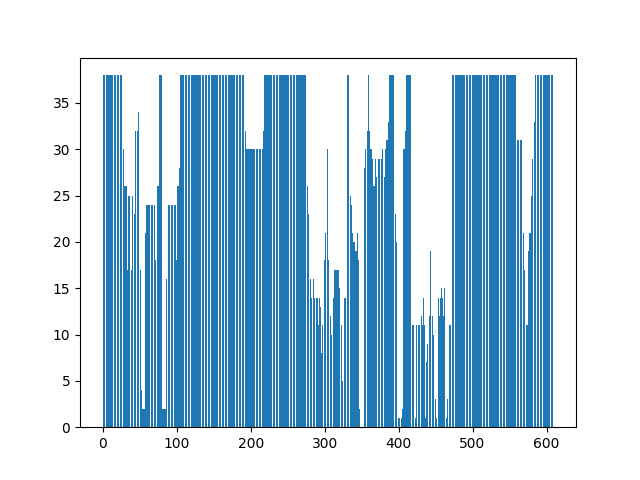
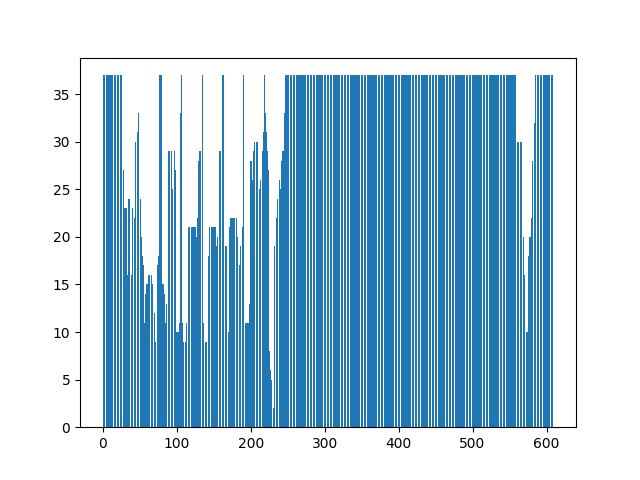
3dprint_windoe_projection追加

diff --git a/3dprint_window_projection.py b/3dprint_window_projection.py
@@ -267,8 +267,8 @@ def match_text(frame,before_text,before_kersol):
             match_img = img_mask[int(char_List1[i]):int(char_List1[i+1]),int(char_List2[j]):int(char_List2[j+1])]
             match_img = cv2.resize(match_img,dsize=(26,36))
             height_m,width_m = match_img.shape
-            #plt.imshow(match_img)
-            #plt.show()
+            plt.imshow(match_img)
+            plt.show()
             for f in range(len(temp['x'])):
                 temp_th = img_temp[f]
                 temp_th = cv2.resize(temp_th,dsize=(26,36))
@@ -282,32 +282,39 @@ def match_text(frame,before_text,before_kersol):
                 
             #類似度が最大のもの順にソート
             new_d = sorted(s.items(), reverse = True)
-            #print(new_d[0][1])
+            #print(label_temp[new_d[0][1]])
             #new_d[0][1]がlabelの番号、new_d[0][0]が最大類似度
-            print(char_List2)
-            print(width_m)
+            #print(char_List2)
+            #print(width_m)
             #空白があるとき
             if (j != 0) & (char_List2[j] > (width_m + char_List2[j-1])):
                 out_modify = speling.correct(out_modify)
-                out += out_modify
+                out = out+ out_modify + ' '
+                output_text.append(' ')
                 output_text.append(out_modify)
                 out_modify = ""
                 new_d = {}
 
-                if (j+1) == len(char_List2):
+                if (j+1) == len(char_List2)-1:
                     out_modify = speling.correct(out_modify)
-                    out_modify += label_temp[new_d[0][1]]
+                    try:
+                        out_modify = out_modify+ label_temp[new_d[0][1]]
+                    except KeyError:
+                        out_modify = out_modify + '→'
                     out = out + out_modify + "\n"
                     output_text.append(out_modify)
                     output_text.append('\n')
                     out_modify = ""
                     new_d = {}
                 continue
-            
+
             #行の最後の時
-            if (j+1) == len(char_List2):
+            if (j+1) == len(char_List2)-1:
                 out_modify = speling.correct(out_modify)
-                out_modify += label_temp[new_d[0][1]]
+                try:
+                    out_modify = out_modify + label_temp[new_d[0][1]]
+                except KeyError:
+                    out_modify = out_modify + '→'
                 out = out + out_modify + "\n"
                 output_text.append(out_modify)
                 output_text.append('\n')
@@ -316,10 +323,11 @@ def match_text(frame,before_text,before_kersol):
                 continue
             #print(label_temp[new_d[0][1]])
             out_modify = out_modify + label_temp[new_d[0][1]]
-            #print(out_modify)
+            print(out_modify)
             new_d = {}
             continue
     print(output_text)
+    print(out)
     #現在のカーソル
     present_kersol = kersol_search(output_text)
     before = []
@@ -520,7 +528,7 @@ def file_w(text,output_text):
 
 if __name__ == "__main__":
     #対象画像をロード
-    img = cv2.imread("./camera1/camera12.jpg")
+    img = cv2.imread("./camera1/camera10.jpg")
     #テンプレートをロード
     temp = np.load(r'./dataset.npz')
     #テンプレート画像を格納

diff --git a/projection.py b/projection.py
@@ -170,7 +170,7 @@ def Detect_WidthPosition(W_THRESH, width, array_V):
  
 if __name__ == "__main__":
     # input image
-    img = cv2.imread("./camera1/camera12.jpg")
+    img = cv2.imread("./camera1/camera10.jpg")
     #対象画像をロード
     #青い部分のみを二値化
     close_img = cut_blue_img(img)
